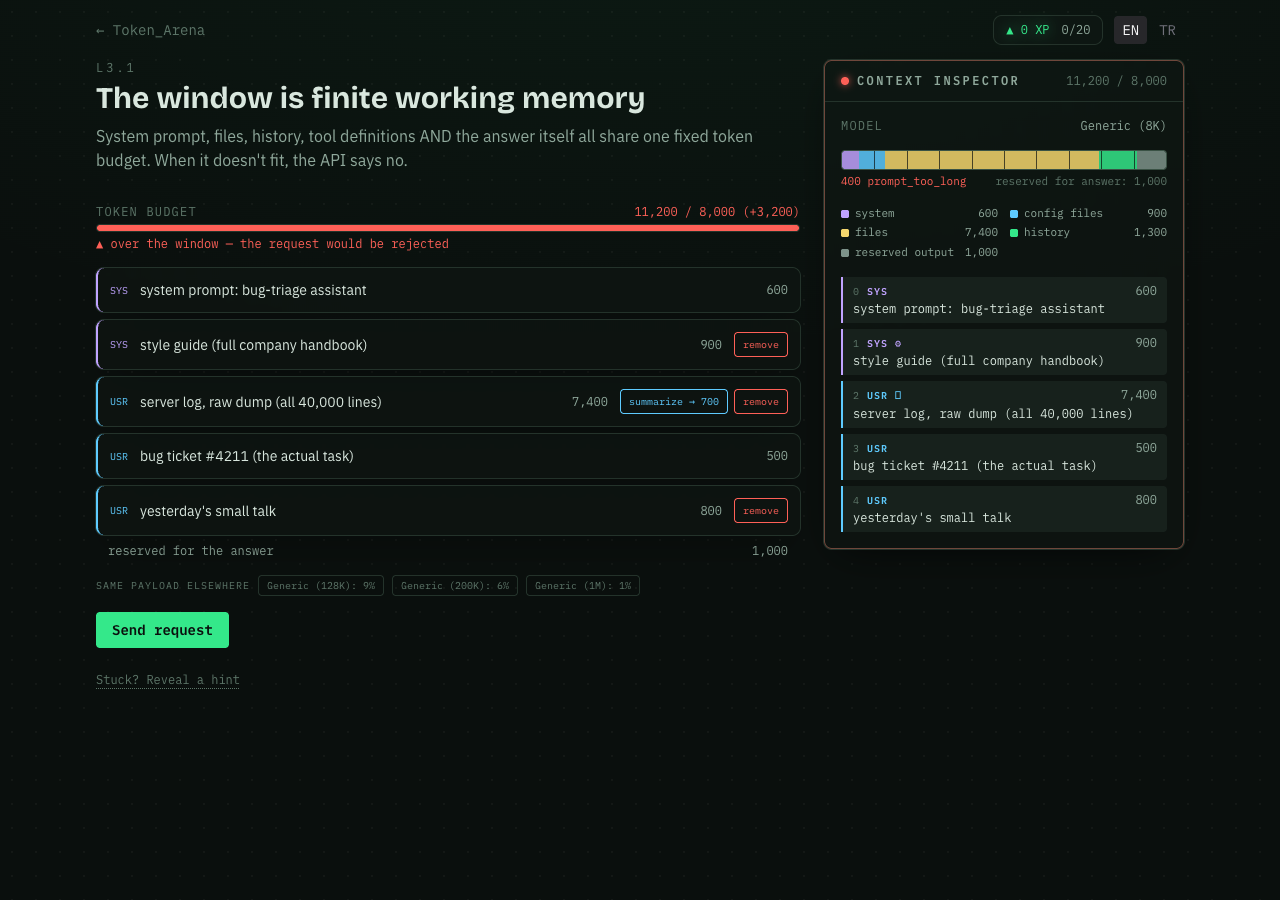
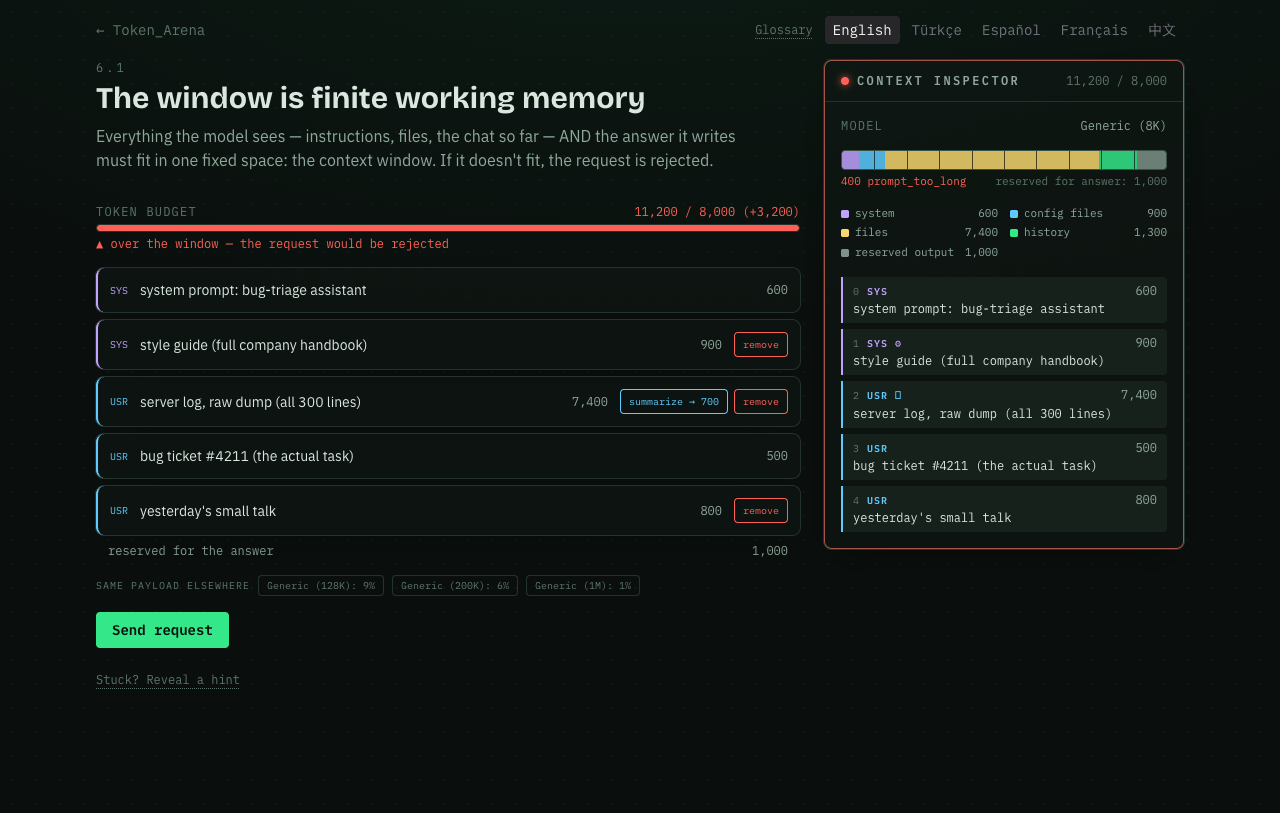
docs: README and CONTRIBUTING for the everyone-first curriculum
README describes the 15-module map, recorded models, glossary and the
developer section; CONTRIBUTING explains lesson ids vs displayed numbers,
adding a module, recording with scripts/record.mjs, and the three new
mechanics. Screenshots retaken (map, inspector, sampling) plus a new one of
a recorded model writing word by word.

diff --git a/CONTRIBUTING.md b/CONTRIBUTING.md
@@ -1,6 +1,6 @@
 # Contributing to Token Arena
 
-Thanks for helping developers see what the model sees. The project is built so that the most valuable contributions — lessons and translations — need little or no code.
+Thanks for helping people see what the model sees. The project is built so that the most valuable contributions — lessons and translations — need little or no code.
 
 ## Local setup
 
@@ -27,29 +27,57 @@ src/
   content/schema.ts       the lesson schema — validates params, pass rules, i18n keys
   components/mechanics/   one React component per mechanic (the renderers)
   components/sim/registry.ts  mechanic name → component map
-  engine/                 pure TS: tokenizer, context, billing, sampling, scoring, sim steps
+  content/modules.ts      module order (array position = map position) and the developer section
+  engine/                 pure TS: tokenizer, context, billing, sampling, scoring, sim steps,
+                          replay, embedding map, image tokens
   stores/                 nanostores: progress (persistent), inspector bridge, byok key custody
-  pages/[locale]/         Astro routes (map, lessons)
+  pages/[locale]/         Astro routes (map, lessons, glossary)
+  lib/curriculum.ts       unlock order and the displayed lesson numbers
+public/prerecorded/       recorded model runs the replay lessons play back
 messages/{en,tr,es,fr,zh}.json     flat i18n catalogs (every UI string)
 tests/                    unit tests + data-reality locks for lesson numbers
-scripts/                  i18n parity check, L6.2 recording script
+scripts/                  i18n parity check, record.mjs (model recordings)
 ```
+
+## Lesson ids vs. the numbers players see
+
+A lesson's `id` (`L12.1`), folder (`12-inside-model/`) and i18n prefix (`l12_1_`) are **stable internal keys**: progress, URLs and translations hang off them, so they never change. The number on the map ("2.1") is derived from the module's position in `MODULES` (`src/content/modules.ts`) and the lesson's `order`, so modules can move without a migration. Two consequences:
+
+- A new module gets the next free id number, not its map position (the "Inside the Model" lessons are `L12.x` but show as 2.x).
+- Prose never cites a lesson by id or number — `tests/glossary.test.ts` fails on `L2.2`-style references. Say "the next lesson" (and lock that with a `nextLesson` test) or name the topic.
 
 ## Add a lesson (no code)
 
-1. **Copy a lesson JSON** from the same mechanic you want (e.g. `src/content/lessons/07-ecosystem/l7-1.json` for a quiz) into the right module folder, with a new `id` (`L<module>.<order>`) and `order`.
-2. **Write your keys**: every `*Key` string in the JSON must exist in `messages/en.json` — and in **every** other catalog (`tr.json`). The build fails on a missing key, `npm run i18n:check` fails on locale drift.
+1. **Copy a lesson JSON** from the same mechanic you want (e.g. `src/content/lessons/07-ecosystem/l7-1.json` for a quiz) into the right module folder, with a new `id` (`L<id number>.<order>`) and `order`.
+2. **Write your keys**: every `*Key` string in the JSON must exist in `messages/en.json` — and in **every** other catalog (`tr`, `es`, `fr`, `zh`). The build fails on a missing key, `npm run i18n:check` fails on locale drift.
 3. **Align the pass**: the schema enforces mechanic-specific rules (e.g. `choiceRounds` length must match the rounds, budgets must be solvable-but-not-free). Run `npm test` — `tests/schema.test.ts` and `tests/lessons.test.ts` tell you exactly what's misaligned.
-4. **Lock your numbers**: if your lesson makes a factual claim the player can check (token counts, budget math, sampling answers), add a data test in `tests/lessons.test.ts` that recomputes it with the real engine. Every existing lesson has one — copy the nearest.
-5. The world map, unlock order, and XP totals update automatically from the data.
+4. **Lock your numbers**: if your lesson makes a factual claim the player can check (token counts, budget math, sampling answers), add a data test in `tests/lessons.test.ts` that recomputes it with the real engine. For numbers in prose, `expectAllLocalesSay(key, …values)` checks that every locale states the computed value (whole numbers, so `800` never matches inside `8,000`). Copy the nearest existing test.
+5. **Register the id**: add it to the expected-id list at the top of `tests/lessons.test.ts` (the test fails otherwise, so nothing ships by accident).
+6. The world map and unlock order update automatically from the data.
+
+**A new module** also needs its id in `MODULE_IDS` (`src/content/schema.ts`), an entry in `MODULES` at the position it should appear (add `section: 'developers'` for the optional developer section), and a `module_<id>_title` key (dashes become underscores) in every catalog.
+
+## Record a model-backed lesson
+
+`model-replay`, `meaning-map` and `model-indecision` lessons play back real model runs. The lesson JSON holds every input (model repo, prompts, steps, seeds); the script only runs them:
+
+```sh
+node scripts/record.mjs L12.1          # one lesson (ids, not displayed numbers)
+node scripts/record.mjs all            # every recordable lesson
+```
+
+- Needs Node ≥ 23 (it imports the TypeScript engines directly). Models download once into `node_modules/.cache/huggingface` — several GB for all lessons.
+- Output goes to the lesson's `recordingPath` under `public/`. Tests fail if a recording no longer matches its lesson, so change inputs → re-record → commit both.
+- Grade model output by its final answer (last number / last yes-no), never by "contains the expected value anywhere" — models restate the question. Read every reply you quote.
 
 ## Add a mechanic (some code)
 
 1. **Schema**: add a params schema and a `variant('your-mechanic', yourParams)` entry in `src/content/schema.ts`.
    ⚠ Never compose the union with `.and()` / intersections — the bundled zod v4 silently swallows nested strict-object violations. Merge base + variant flat, exactly like every existing entry.
    Add a `superRefine` rule tying your mechanic to its pass type (see the existing ones — they're all short).
+   If it is round-based (`choiceRounds`), add it to the `roundsOf` switch so answers are range-checked.
 2. **Component**: create `src/components/mechanics/YourMechanic.tsx` implementing `MechanicComponentProps` (`lesson`, `locale`, `onPass`). Call `onPass()` exactly once, after `evaluate(lesson.pass, evidence)` passes. Use `lessonText(key, locale, params)` for all copy.
-3. **Register** it in `src/components/sim/registry.ts` (lazy import — each mechanic ships as its own chunk).
+3. **Register** it in `src/components/sim/registry.ts` (lazy import — each mechanic ships as its own chunk). The map is total: `npm run check` fails until every schema mechanic has a renderer.
 4. **Inspector**: if your mechanic shows the payload, push `ContextState` via `showInspector`/`updateInspectorState` and use authored `fixedTokens` (the determinism rule: localized prose must never change pass/fail).
 5. **Tests**: a rejection case per superRefine rule in `tests/schema.test.ts`; engine logic goes in `src/engine/` with its own test file.
 
@@ -64,7 +92,7 @@ scripts/                  i18n parity check, L6.2 recording script
 
 ## Reference: mechanics and pass checks
 
-| Mechanic | Pass check | Lesson example |
+| Mechanic | Pass check | Lesson example (id) |
 | --- | --- | --- |
 | `intro-tour` | `none` | M0 |
 | `tokenizer-playground` | `completeAll` | L1.1 |
@@ -87,6 +115,9 @@ scripts/                  i18n parity check, L6.2 recording script
 | `session-sim` | `choiceRounds` (compaction-sim's renderer under a self-documenting name) | L10.1 |
 | `subagent-sim` | `choiceRounds` (main script + isolated `params.sub` script) | L10.3 |
 | `byok-chat` | `completeAll` (count 1, inspector required) | L11.1 |
+| `model-replay` | `choiceRounds` (scenes: trace, next, continue, occlusion, answers, thinking) | L12.1 / L12.3 / L13.1 / L13.2 / L14.1 |
+| `meaning-map` | `choiceRounds` | L12.2 |
+| `image-tokens` | `choiceRounds` | L14.2 |
 
 Pass check shapes live in `src/engine/scoring.ts`; the schema's per-mechanic alignment rules live at the bottom of `src/content/schema.ts`.
 

diff --git a/README.md b/README.md
@@ -1,43 +1,45 @@
 # Token Arena
 
-**See what the model sees.** A gamified, open-source, fully static web app that teaches software developers how LLMs actually work — tokenization, the stateless request loop, the context window, instruction hierarchy, context rot, sampling, config files, the tool loop, agent compaction, and the coding-agent harness itself. Real mechanics under a game, in the spirit of [Oh My Git!](https://ohmygit.org).
+**See what the model sees.** A free, open-source, fully static web game that shows anyone how the AI behind ChatGPT, Claude and Gemini actually works — no math or coding needed. Tokens, how a model writes word by word, meaning maps, attention, training and hallucinations, sampling, the stateless request loop, the context window, thinking models, image tokens, instruction hierarchy, context rot, tools and agents — and, in an optional section for developers, config files and the coding-agent harness. Real mechanics under a game, in the spirit of [Oh My Git!](https://ohmygit.org).
 
 **Play it:** https://thornaci.github.io/token-arena — English, Turkish, Spanish, French and Chinese, no backend, no accounts, no telemetry. Progress lives in your browser.
 
-![The world map: twelve modules on a circuit board](docs/screenshot-map.png)
+![The world map: twelve modules for everyone, then a "For developers" section](docs/screenshot-map.png)
 
 ## What's inside
 
-- **12 modules, 27 lessons** — from "what is a token" to a real-API capstone. Every scripted lesson is deterministic and its authored numbers are locked to reality by tests.
+- **15 modules, 34 lessons** — from "what is a token" to a real-API capstone. Scripted lessons are deterministic, and data tests check their numbers against the engines, the recordings, or the published formulas they come from.
+- **Recorded real models** — the "Inside the Model", "How a Model Learns" and "New-Generation Models" modules replay real runs of small open models (Qwen2.5-0.5B base and instruct, Qwen3-0.6B with thinking on and off, EmbeddingGemma for the meaning map). No model downloads to the player; all recordings together are under 70 KB of JSON.
 - **The Context Inspector** — the signature panel. It shows the exact payload the model would receive on the next turn: every block, every token count, the fill bar, the simulated `400: prompt too long`.
-- **A real model in your browser (L6.2)** — Qwen2.5-0.5B-Instruct via [transformers.js](https://github.com/huggingface/transformers.js) on WebGPU, one-time size-consented download, manual forward pass exposing true softmax top-k. No WebGPU? The lesson replays recorded runs of the same model with the identical UI.
-- **Inside the agent harness (M10)** — what a coding-agent session loads before you type, always-on vs on-demand context (CLAUDE.md, rules, skills, MCP), subagents as a second context window, hooks, permission modes, and what actually survives `/compact`.
-- **BYO-key sandbox (M11)** — the only place real API calls happen, with your own key, straight from your browser to OpenAI / Anthropic / any OpenAI-compatible endpoint. The inspector mirrors the exact request body live.
-- **Badges, hints** — progress export/import as JSON.
+- **A live model in your browser** — the sampling module can run Qwen2.5-0.5B-Instruct via [transformers.js](https://github.com/huggingface/transformers.js) on WebGPU after a size-consented download. No WebGPU? It replays a recorded run of the same model with the identical UI.
+- **Image tokens** — a calculator that follows Anthropic's published resize-and-patch rule, so the token counts are the real ones.
+- **For developers (optional)** — config files (CLAUDE.md, AGENTS.md, Cursor rules), what a coding-agent session loads before you type, skills, MCP, subagents, hooks, permission modes, what survives `/compact`, and a bring-your-own-key sandbox that sends real requests straight from your browser.
+- **Glossary, badges and tiered hints** — a plain-language glossary page; progress lives in your browser's local storage.
 
-| The window filling up | Real sampling math |
-| --- | --- |
-| ![Context window lesson with the inspector](docs/screenshot-inspector.png) | ![Temperature and top-p over a live distribution](docs/screenshot-sampling.png) |
+| How a model writes, recorded | The window filling up | Real sampling math |
+| --- | --- | --- |
+| ![A recorded model choosing its next word](docs/screenshot-inside.png) | ![Context window lesson with the inspector](docs/screenshot-inspector.png) | ![Temperature and top-p over a live distribution](docs/screenshot-sampling.png) |
 
 ## Quickstart
 
 ```sh
 npm ci
 npm run dev      # compiles i18n, starts the dev server
-npm test         # 154 unit + data-reality tests
+npm test         # unit + data-reality tests
 npm run build    # static production build (GitHub Pages ready)
 npm run preview  # preview the production build
 ```
 
-Requires Node ≥ 22.
+Requires Node ≥ 22 (the optional recording script needs Node ≥ 23).
 
-## Architecture in six lines
+## Architecture in seven lines
 
 - **Astro 7** static site (base `/token-arena`), **React 19** islands for the interactive parts, **Tailwind 4** design tokens.
 - **Lessons are data, not code**: JSON in `src/content/lessons/**`, validated by a zod schema that also checks every referenced i18n key exists and that pass criteria line up with the authored content.
 - **Mechanics are components**: `src/components/mechanics/*` registered in `src/components/sim/registry.ts`; a new lesson usually needs zero new code.
-- **Engines are pure TypeScript**: tokenizer wrapper, context/billing/sampling/scoring/sim-step machines in `src/engine/` — all unit-tested in Node.
+- **Engines are pure TypeScript**: tokenizer wrapper, context/billing/sampling/scoring/sim-step machines, replay, embedding-map and image-token math in `src/engine/` — all unit-tested in Node.
 - **Determinism rule**: scripted lessons use authored `fixedTokens` only; live tokenization exists only in playground surfaces. Data tests recompute authored answers against the real engines.
+- **Recordings**: `node scripts/record.mjs <lesson id…|all>` runs the models a lesson names and writes `public/prerecorded/*.json`; tests fail if a recording drifts from its lesson.
 - **i18n**: flat catalogs in `messages/{en,tr,es,fr,zh}.json` via Paraglide; CI fails if locales drift apart.
 
 ## Contributing
